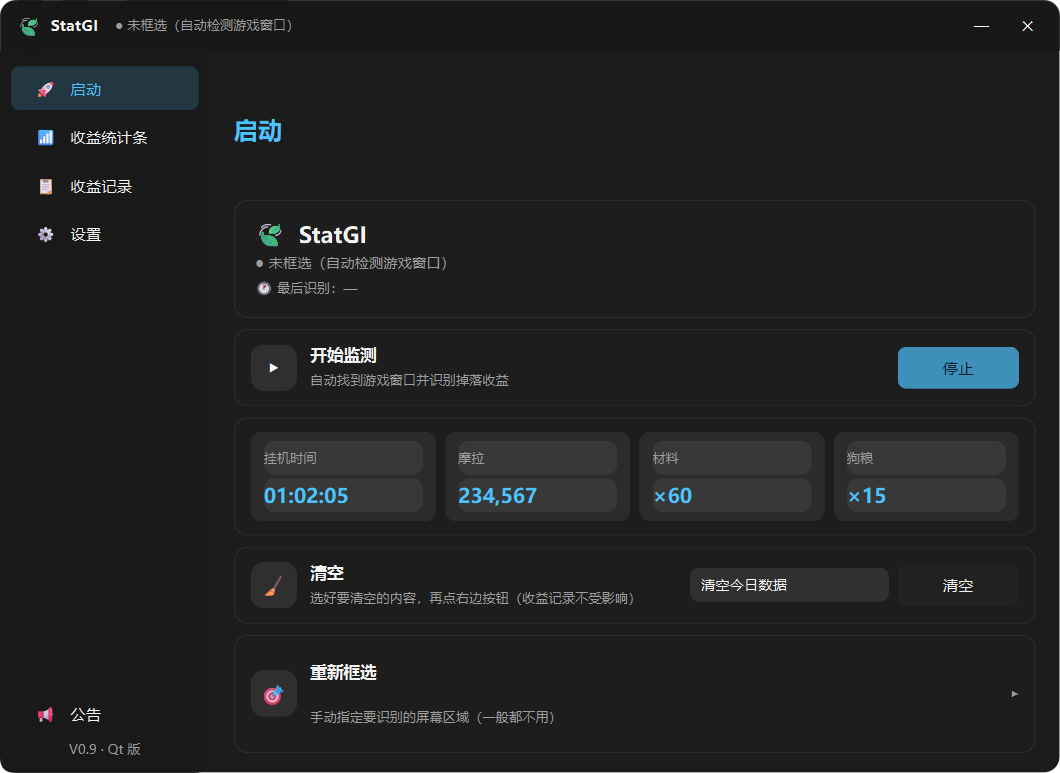
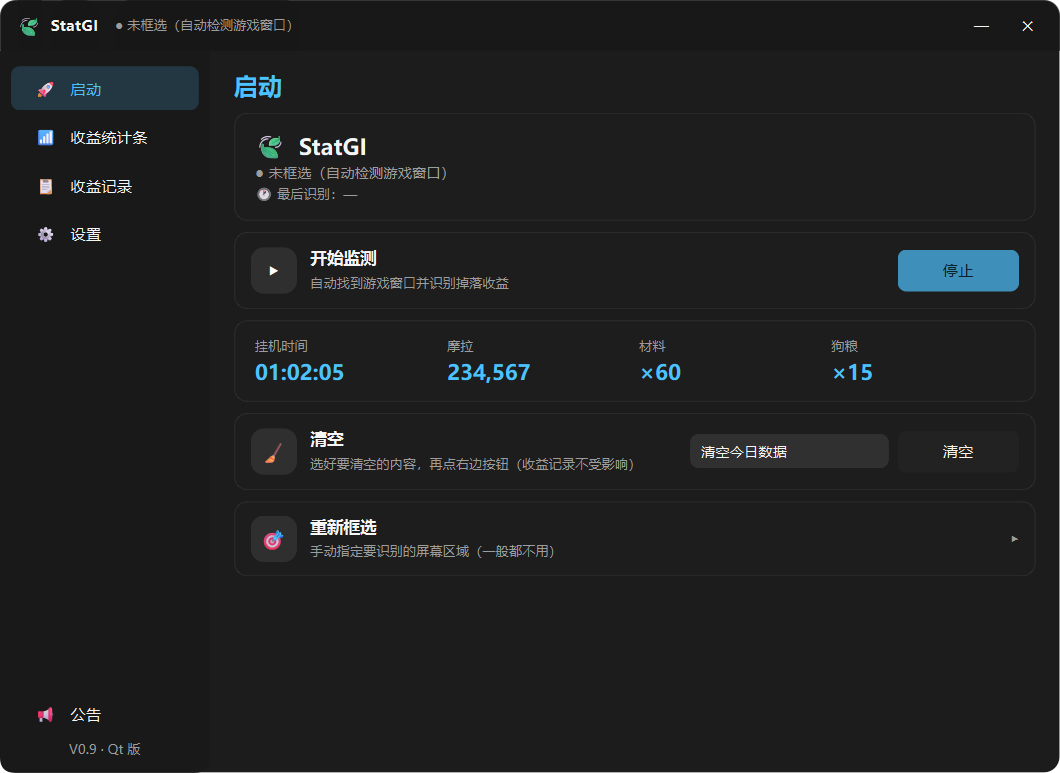
统计卡片只留一个框（去掉里面套的小框）；修复重新框选卡片被撑高（补回丢掉的 stretch）

diff --git a/statgi_qt/qt_pages.py b/statgi_qt/qt_pages.py
@@ -115,32 +115,26 @@ class PageLaunch(BasePage):
                             right_wrap(self.start_btn), alpha=self.alpha))
 
         # ---- 本次挂机（独立一张卡片，**只在监测时出现**）----
-        # 四个数字各一个小框：挂机时间 / 摩拉 / 材料 / 狗粮。
-        # 不监测的时候整张卡片藏起来，启动页就只剩上面那几张。
+        # 四个数字**直接摆在这张卡片里**，里面不再套小框了 ——
+        # 卡片本身就是那个框（上一版里外两层框，又丑又挤）。
         self.stat_card = Card(self, alpha=self.alpha)
         cb = QHBoxLayout(self.stat_card)
-        cb.setContentsMargins(14, 12, 14, 12)
+        cb.setContentsMargins(18, 14, 18, 14)
         cb.setSpacing(8)
         self.stat_labels = {}
         self._stat_txt = {}          # 上次写进去的文字，一样就不重复写
         for key, title in (("time", "挂机时间"), ("mora", "摩拉"),
                            ("materials", "材料"), ("artifact", "狗粮")):
-            box = QFrame()           # 每个数字一个小框
-            # 底色浅浅一层就够了；描边太亮会很扎眼（上一版就栽在这儿）
-            box.setStyleSheet(
-                f"QFrame {{ background: {rgba('#FFFFFF', 16)};"
-                f" border: none; border-radius: 10px; }}")
-            bl = QVBoxLayout(box)
-            bl.setContentsMargins(12, 8, 12, 8)
-            bl.setSpacing(3)
+            col = QVBoxLayout()
+            col.setSpacing(3)
             lb = QLabel(title)
             lb.setStyleSheet(label_qss(T.DIM, 12))
             val = QLabel("—")
-            val.setStyleSheet(label_qss(T.ACCENT, 18, True))
-            bl.addWidget(lb)
-            bl.addWidget(val)
+            val.setStyleSheet(label_qss(T.ACCENT, 19, True))
+            col.addWidget(lb)
+            col.addWidget(val)
             self.stat_labels[key] = val
-            cb.addWidget(box, 1)
+            cb.addLayout(col, 1)
         self.stat_card.setVisible(False)      # 一开始不显示
         self.add(self.stat_card)
         self._last_monitoring = False
@@ -172,6 +166,10 @@ class PageLaunch(BasePage):
                              ("📷 诊断截图", self._on_debug_screenshot)], self.alpha),
             alpha=self.alpha)
         self.add(self.reselect)
+        # 撑开：把上面几张卡片顶到上面去，多余空间全留在最底下。
+        # 少了这一行，布局会把多余空间摊到每张卡片上 ——
+        # 表现就是「重新框选那张卡莫名其妙变高了」。
+        self.stretch()
 
         # 订阅状态：文字变了才改，**不重建控件**
         self.state.status_changed.connect(self._on_status)
